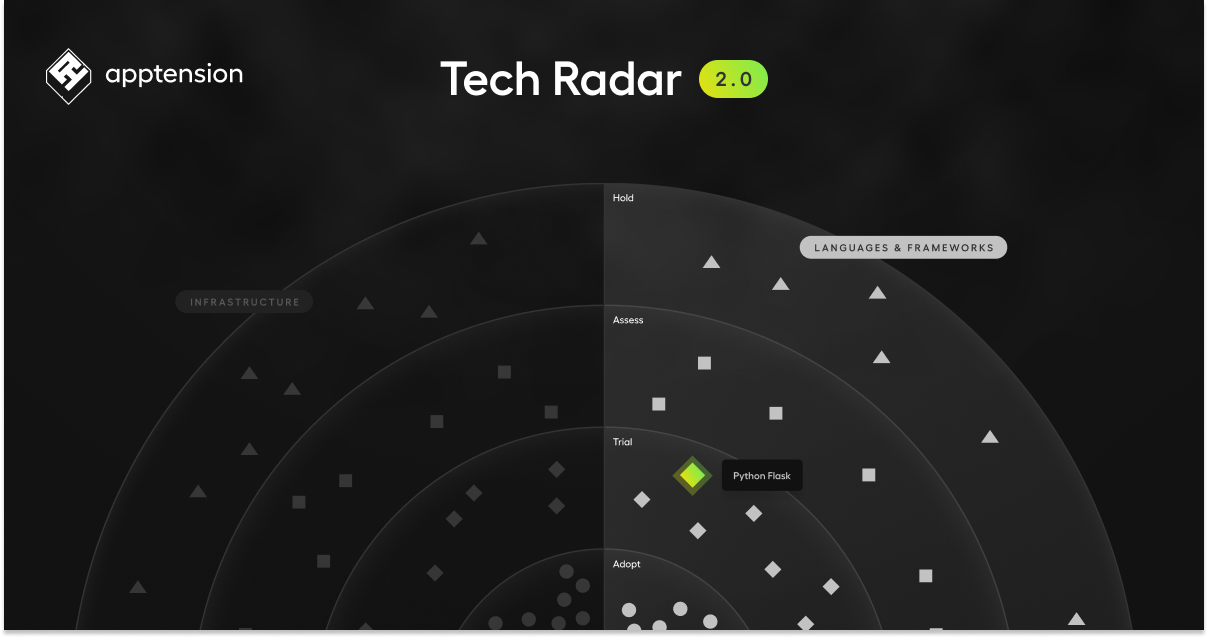
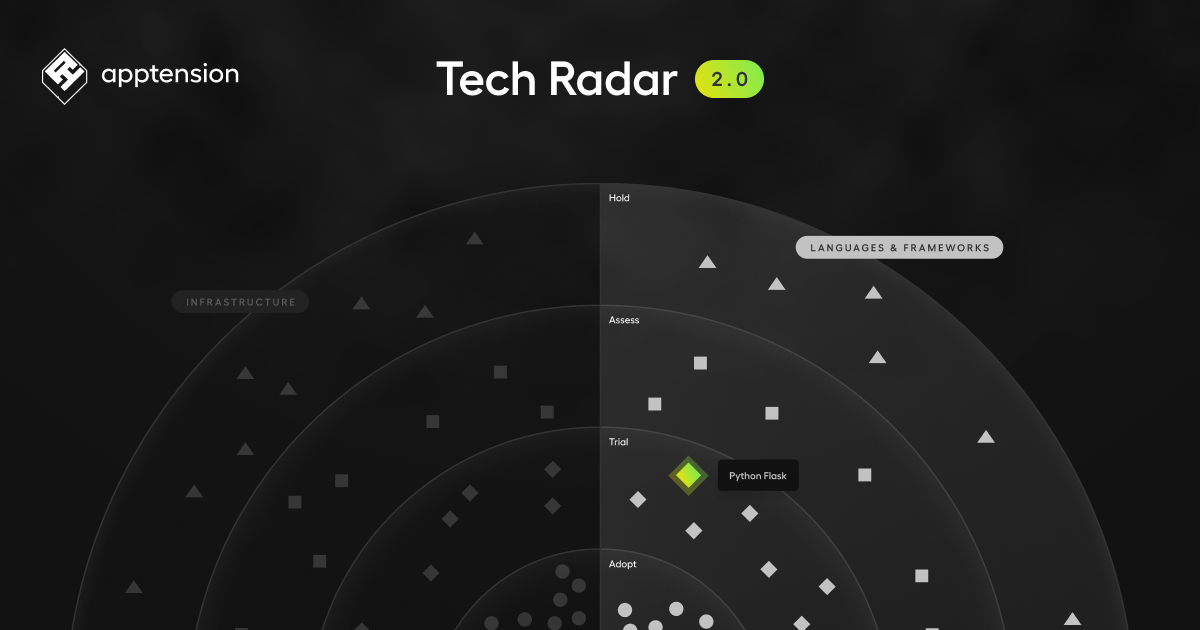
[TRA-148] Adjust image size

diff --git a/public/index.html b/public/index.html
@@ -26,8 +26,8 @@
     <meta property="og:title" content="Apptension Tech Radar" />
     <meta property="og:type" content="website" />
     <meta property="og:image" content="%PUBLIC_URL%/og_image.png" />
-    <meta property="og:image:width" content="1208" />
-    <meta property="og:image:height" content="638" />
+    <meta property="og:image:width" content="1200" />
+    <meta property="og:image:height" content="630" />
     <meta property="og:image:type" content="image/png" />
     <meta property="og:description" content="Explore products, technologies and tools used at Apptension." />
     <meta property="og:url" content="https://radar.apptension.com/" />
